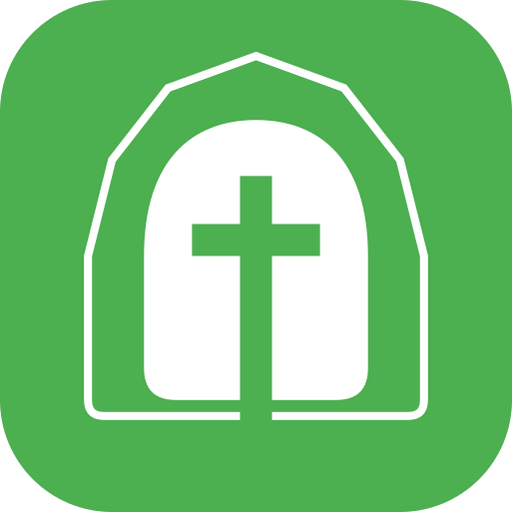
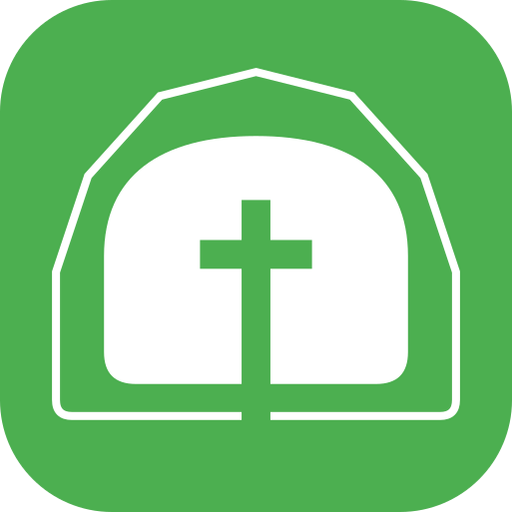
로고 아치를 가로로 넓게, 십자가는 더 작고 상단 여백 확실히
아치 너비를 늘리고 높이를 낮춰 가로가 긴 비율로 조정.
십자가 크기를 줄이고 상단에 여백을 더 둬서 아치 상단과
겹치지 않도록 함. 하단은 여전히 문/아치를 뚫고 배경과 이어짐.

diff --git a/app/components/Header.tsx b/app/components/Header.tsx
@@ -25,18 +25,18 @@ export default function Header() {
       <div style={s.logo}>
         <svg viewBox="0 0 64 64" width={40} height={40}>
           <path
-            d="M11 50V32L14 20L21 11L32 7L43 11L50 20L53 32V50Q53 52 51 52H13Q11 52 11 50Z"
+            d="M7 50V34L11 22L20 12L32 9L44 12L53 22L57 34V50Q57 52 55 52H9Q7 52 7 50Z"
             fill="none"
             stroke="white"
             strokeWidth="3.6"
             strokeLinejoin="round"
           />
           <path
-            d="M18 46V32C18 20 24 15 32 15C40 15 46 20 46 32V46Q46 50 42 50H22Q18 50 18 46Z"
+            d="M13 44V32C13 22 20 17 32 17C44 17 51 22 51 32V44Q51 48 47 48H17Q13 48 13 44Z"
             fill="white"
           />
-          <rect x="30" y="22" width="4" height="34" fill="#4CAF50" />
-          <rect x="24" y="28" width="16" height="4" fill="#4CAF50" />
+          <rect x="30.2" y="25" width="3.6" height="30" fill="#4CAF50" />
+          <rect x="25" y="30" width="14" height="3.6" fill="#4CAF50" />
         </svg>
       </div>
       <div style={{ fontSize: 12, fontWeight: 700, color: colors.primary, marginBottom: 2 }}>